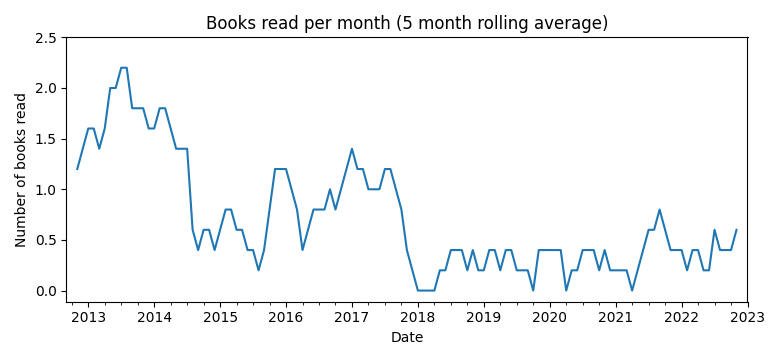
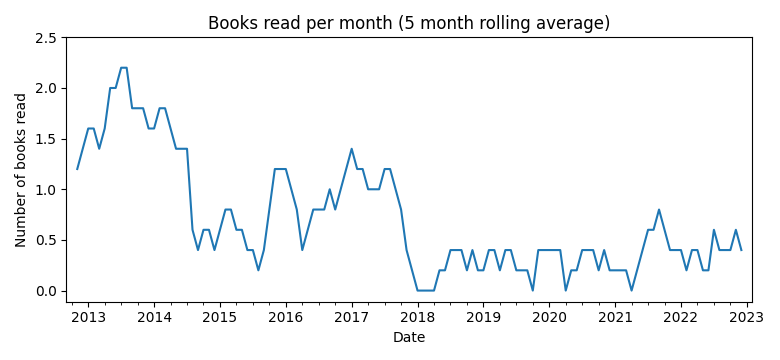
cn

diff --git a/README.md b/README.md
@@ -6,13 +6,16 @@ The most significant events impacting the number of books I read are
 * The birth of my daughers in 2018/01 and 2019/08
 
 ### Statistics
-Total number of books read: 89  
-Books per month: 0.71 (2012/9 to 2023/1)
+Total number of books read: 90  
+Books per month: 0.71 (2012/9 to 2023/2)
 
 ![Books recorded by year](book_recorded.png)
 ![Books read per month](book_read.png)
 
 ### List of books
+*Deep Work*, Cal Newport  
+Finished: 2023.02.17
+
 *Die Brüder Löwenherz*, Astrid Lindgren  
 Finished: 2023.01.21
 
